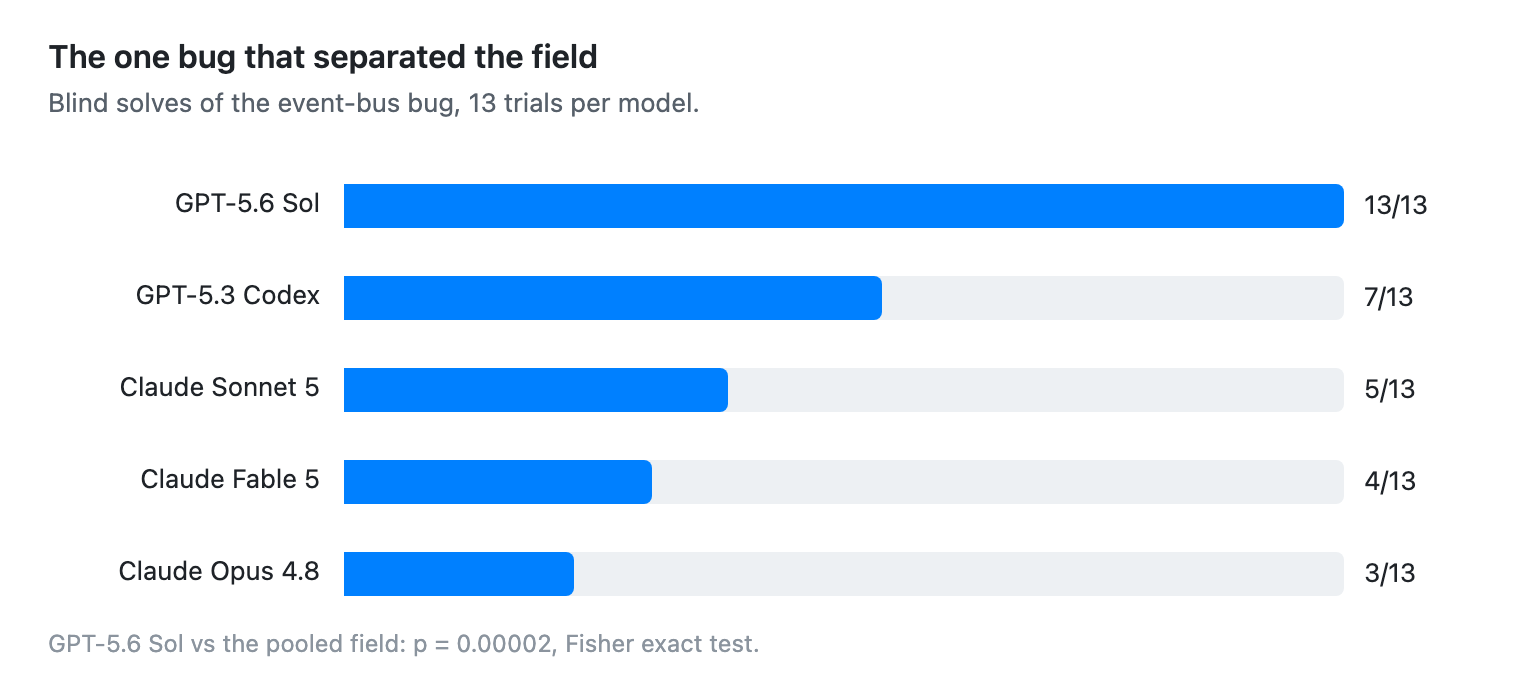
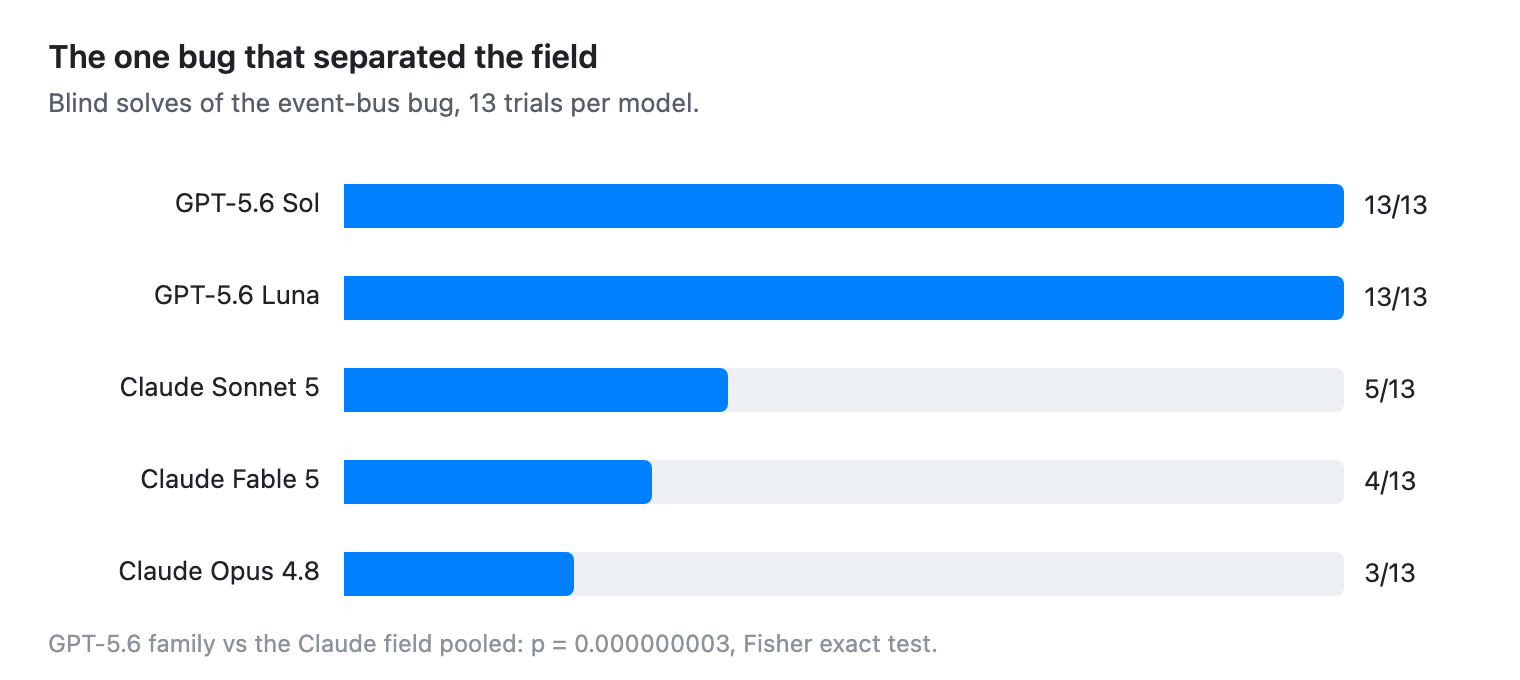
GPT-5.6 Luna replaces retiring Codex in the article; Terra and Luna data added

Changed region(s): [[0.5566, 0.4015, 0.9586, 0.4941], [0.0928, 0.9265, 0.6184, 0.9574], [0.0928, 0.4015, 0.2164, 0.4632]]

diff --git a/charts/chart-cost-hard-tier.html b/charts/chart-cost-hard-tier.html
@@ -15,7 +15,7 @@
   <!-- cost scale: $0.16 -> 240px ; time scale: 24s -> 240px -->
   <g font-size="13">
     <!-- model labels -->
-    <text x="136" y="126" text-anchor="end" fill="#1F2328">GPT-5.3 Codex</text>
+    <text x="136" y="126" text-anchor="end" fill="#1F2328">GPT-5.6 Luna</text>
     <text x="136" y="172" text-anchor="end" fill="#1F2328">GPT-5.6 Sol</text>
     <text x="136" y="218" text-anchor="end" fill="#1F2328">Claude Sonnet 5</text>
     <text x="136" y="264" text-anchor="end" fill="#1F2328">Claude Opus 4.8</text>
@@ -23,13 +23,13 @@
 
   <!-- cost bars (x0=148) -->
   <g fill="#0080FF">
-    <path d="M148 112 h23 a4 4 0 0 1 4 4 v14 a4 4 0 0 1 -4 4 h-23 z"/>
+    <path d="M148 112 h15 a4 4 0 0 1 4 4 v14 a4 4 0 0 1 -4 4 h-15 z"/>
     <path d="M148 158 h72 a4 4 0 0 1 4 4 v14 a4 4 0 0 1 -4 4 h-72 z"/>
     <path d="M148 204 h74 a4 4 0 0 1 4 4 v14 a4 4 0 0 1 -4 4 h-74 z"/>
     <path d="M148 250 h212 a4 4 0 0 1 4 4 v14 a4 4 0 0 1 -4 4 h-212 z"/>
   </g>
   <g font-size="13" fill="#1F2328">
-    <text x="183" y="126">$0.018</text>
+    <text x="175" y="126">$0.010</text>
     <text x="232" y="172">$0.049</text>
     <text x="234" y="218">$0.050</text>
     <text x="372" y="264">$0.144</text>
@@ -37,13 +37,13 @@
 
   <!-- time bars (x0=464), scale 24s -> 240px => px = s * 10 -->
   <g fill="#0080FF">
-    <path d="M464 112 h124 a4 4 0 0 1 4 4 v14 a4 4 0 0 1 -4 4 h-124 z"/>
+    <path d="M464 112 h97 a4 4 0 0 1 4 4 v14 a4 4 0 0 1 -4 4 h-97 z"/>
     <path d="M464 158 h164 a4 4 0 0 1 4 4 v14 a4 4 0 0 1 -4 4 h-164 z"/>
     <path d="M464 204 h153 a4 4 0 0 1 4 4 v14 a4 4 0 0 1 -4 4 h-153 z"/>
     <path d="M464 250 h200 a4 4 0 0 1 4 4 v14 a4 4 0 0 1 -4 4 h-200 z"/>
   </g>
   <g font-size="13" fill="#1F2328">
-    <text x="596" y="126">12.8s</text>
+    <text x="569" y="126">9.7s</text>
     <text x="636" y="172">16.4s</text>
     <text x="625" y="218">15.3s</text>
     <text x="672" y="264">20.4s</text>

diff --git a/charts/chart-blind-solves.html b/charts/chart-blind-solves.html
@@ -10,7 +10,7 @@
   <!-- rows: GPT-5.5 13, Codex 7, Sonnet 5, Fable 4, Opus 3 ; track x0=172 width 500 (13 -> 500px) -->
   <g font-size="13">
     <text x="160" y="106" text-anchor="end" fill="#1F2328">GPT-5.6 Sol</text>
-    <text x="160" y="152" text-anchor="end" fill="#1F2328">GPT-5.3 Codex</text>
+    <text x="160" y="152" text-anchor="end" fill="#1F2328">GPT-5.6 Luna</text>
     <text x="160" y="198" text-anchor="end" fill="#1F2328">Claude Sonnet 5</text>
     <text x="160" y="244" text-anchor="end" fill="#1F2328">Claude Fable 5</text>
     <text x="160" y="290" text-anchor="end" fill="#1F2328">Claude Opus 4.8</text>
@@ -28,7 +28,7 @@
   <!-- bars: px = n/13*500 -> 13:500, 7:269, 5:192, 4:154, 3:115 -->
   <g fill="#0080FF">
     <path d="M172 92  h496 a4 4 0 0 1 4 4 v14 a4 4 0 0 1 -4 4 h-496 z"/>
-    <path d="M172 138 h265 a4 4 0 0 1 4 4 v14 a4 4 0 0 1 -4 4 h-265 z"/>
+    <path d="M172 138 h496 a4 4 0 0 1 4 4 v14 a4 4 0 0 1 -4 4 h-496 z"/>
     <path d="M172 184 h188 a4 4 0 0 1 4 4 v14 a4 4 0 0 1 -4 4 h-188 z"/>
     <path d="M172 230 h150 a4 4 0 0 1 4 4 v14 a4 4 0 0 1 -4 4 h-150 z"/>
     <path d="M172 276 h111 a4 4 0 0 1 4 4 v14 a4 4 0 0 1 -4 4 h-111 z"/>
@@ -37,13 +37,13 @@
   <!-- labels to the right of the rail -->
   <g font-size="13" fill="#1F2328">
     <text x="682" y="107">13/13</text>
-    <text x="682" y="153">7/13</text>
+    <text x="682" y="153">13/13</text>
     <text x="682" y="199">5/13</text>
     <text x="682" y="245">4/13</text>
     <text x="682" y="291">3/13</text>
   </g>
 
-  <text x="24" y="326" font-size="12" fill="#8B949E">GPT-5.6 Sol vs the pooled field: p = 0.00002, Fisher exact test.</text>
+  <text x="24" y="326" font-size="12" fill="#8B949E">GPT-5.6 family vs the Claude field pooled: p = 0.000000003, Fisher exact test.</text>
 </svg>
 </body>
 </html>

diff --git a/ARTICLE.md b/ARTICLE.md
@@ -1,6 +1,6 @@
 # I Made 5 Frontier Models Run 410 Coding Tasks. Coding Ability Is Not What Separates Them.
 
-I decided to run a little experiment and gave five frontier models the same job: they got a small JavaScript project and a bug report, with four tools to go and fix it. The models I tested were Claude Opus 4.8, Claude Sonnet 5, Claude Fable 5, GPT-5.6 Sol, and GPT-5.3 Codex where each ran 82 times against 18 tasks, first with the test suite available and then without it, making 410 runs in total, every one traced into Latitude for observability of different metrics like cost and latency. Before carrying out the experiment I expected a ranking of who fixes bugs best. Instead, every model fixed the bugs without too much of a hassle, and the real differences showed up in performance: what a solved task costs, how fast it got there, and oddly enough whether the model agrees to do the work at all.
+I decided to run a little experiment and gave five frontier models the same job: they got a small JavaScript project and a bug report, with four tools to go and fix it. The models I tested were Claude Opus 4.8, Claude Sonnet 5, Claude Fable 5, GPT-5.6 Sol, and GPT-5.6 Luna where each ran 82 times against 18 tasks, first with the test suite available and then without it, making 410 runs in total, every one traced into Latitude for observability of different metrics like cost and latency. Before carrying out the experiment I expected a ranking of who fixes bugs best. Instead, every model fixed the bugs without too much of a hassle, and the real differences showed up in performance: what a solved task costs, how fast it got there, and oddly enough whether the model agrees to do the work at all.
 
 Two disclosures before I get to the numbers. The harness was built and operated by Claude Fable 5 running as a coding agent, and Fable 5 is also a contestant. The benchmark tasks themselves were authored by Claude-based agents as well, which is a bias that cannot be fully ruled out, so the harness, every task, and the raw per-run results ship in this repo for anyone who wants to check the work or point it at different models.
 
@@ -24,11 +24,11 @@ All five models solved 100 percent of the runs they attempted, on both difficult
 
 However what did vary was the bill. Cost per solved task on the hard tier:
 
-![Bar charts of cost per solved task and median time per task on the hard tier: Codex $0.018 and 12.8s, GPT-5.6 Sol $0.049 and 16.4s, Sonnet 5 $0.050 and 15.3s, Opus 4.8 $0.144 and 20.4s](charts/chart-cost-hard-tier.png)
+![Bar charts of cost per solved task and median time per task on the hard tier: GPT-5.6 Luna $0.010 and 9.7s, GPT-5.6 Sol $0.049 and 16.4s, Sonnet 5 $0.050 and 15.3s, Opus 4.8 $0.144 and 20.4s](charts/chart-cost-hard-tier.png)
 
 Claude Fable 5 is missing from this table because it refused 16 of its 18 hard-tier runs, too few solves to price fairly, for a reason that gets its own section below. On the easy tier it solved all 23 runs it attempted, at $0.20 each with a 29-second median, still the slowest and priciest of the field.
 
-**That is an 8x difference for identical outcomes.** Moving from single-file to multi-file bugs roughly doubled Opus's cost per solve while barely moving Codex's, which ran about a penny on the easy tier and under two cents on the hard. When every model gets you the same green checkmark, paying flagship prices for routine fixes is wasteful to say the least.
+**That is a 14x difference for identical outcomes.** Moving from single-file to multi-file bugs roughly doubled Opus's cost per solve while barely moving Luna's, which stayed around a penny on both tiers. When every model gets you the same green checkmark, paying flagship prices for routine fixes is wasteful to say the least.
 
 ![Latitude users view showing the five models as users, each with a session count and total cost](screenshots/03-models-as-users.png)
 
@@ -66,13 +66,13 @@ The fix is a one-liner in the wrapper. Finding it is the hard part: you have to 
 
 The first pass ran every blind task three times per model, and this bug was the only one where anyone failed, so I reran it at thirteen trials per model to make sure I was looking at a real difference:
 
-![Bar chart of blind solves on the event-bus bug out of 13 trials: GPT-5.6 Sol 13, Codex 7, Sonnet 5 5, Fable 5 4, Opus 4.8 3](charts/chart-blind-solves.png)
+![Bar chart of blind solves on the event-bus bug out of 13 trials: GPT-5.6 Sol 13, GPT-5.6 Luna 13, Sonnet 5 5, Fable 5 4, Opus 4.8 3](charts/chart-blind-solves.png)
 
-GPT-5.6 Sol against the rest of the field pooled comes out at p = 0.00002 on a Fisher exact test, so this is not sampling luck. It also scrambles the pricing intuition: the cheapest model in the lineup is second best at blind diagnosis, and the most expensive is the worst.
+Both GPT-5.6 models against the Claude field pooled come out at p = 0.000000003 on a Fisher exact test, so this is not sampling luck. It also breaks the pricing intuition completely: the cheapest model in the lineup ties the flagship with a perfect score, and the most expensive is the worst.
 
-A lineup note: the benchmark first ran with GPT-5.5, and OpenAI shipped GPT-5.6 while I was writing this up, so I reran all 82 of its runs on GPT-5.6 Sol. The charts show the successor. GPT-5.5 solved exactly the same tasks, including 13/13 on this bug, at slightly higher cost and latency; its full numbers are in this repo.
+A lineup note: the benchmark first ran with GPT-5.5 and GPT-5.3 Codex. OpenAI shipped the GPT-5.6 family while I was writing this up and scheduled Codex's API shutdown for July 23, so I reran the full 82-run gauntlet on GPT-5.6 Sol and GPT-5.6 Luna, and the charts show the successors. The retired pair's full numbers are in this repo: GPT-5.5 matched Sol's solves at higher cost, and Codex solved this bug 7 times out of 13.
 
-That is a bit of an interesting revelation, at least as it pertains to this experiment. The gap between these models is not whether they can fix bugs. It is whether they can reason through a genuinely tricky bug with nothing to check their answer against, and you only pay for that gap when no test can tell the model it is wrong. If your pipeline gives agents a failing test to iterate against, the $0.018 model and the $0.144 model produce the same outcome, and the discriminating case is rare enough that I had to engineer it on purpose.
+That is a bit of an interesting revelation, at least as it pertains to this experiment. The gap between these models is not whether they can fix bugs. It is whether they can reason through a genuinely tricky bug with nothing to check their answer against, and you only pay for that gap when no test can tell the model it is wrong. If your pipeline gives agents a failing test to iterate against, the $0.010 model and the $0.144 model produce the same outcome, and the discriminating case is rare enough that I had to engineer it on purpose.
 
 ## What happened with Claude Fable 5
 
@@ -86,6 +86,6 @@ The scope here is narrow on purpose so the experiment was nicely isolated. Every
 
 ## What I'd do with these numbers
 
-For this class of task, give your agent a test suite it can run against, wire everything into an observability platform, and buy the cheap model. Every task where the agent could run the tests was solved by the cheapest model in the lineup for a penny or two per fix, and the expensive models added little but latency and cost. Save the flagship spend for work where nothing can tell the agent it is wrong, because that is the only place I could measure a quality difference at all. Finally maybe consider refusal rate as a production metric along with signals like user frustration or escalation, measured on your own traffic.
+For this class of task, give your agent a test suite it can run against, wire everything into an observability platform, and buy the cheap model. Every task where the agent could run the tests was solved by the cheapest model in the lineup for about a penny per fix, and the expensive models added little but latency and cost. Quality differences only appeared where nothing could tell the agent it was wrong, and even there the newest cheap model matched the flagship, so test on your own workload before paying for size. Finally maybe consider refusal rate as a production metric along with signals like user frustration or escalation, measured on your own traffic.
 
-The harness, the tasks, the per-run results, and the refusal probes are all in this repo, and the whole benchmark cost around $30 in API spend if you do the same setup.
+The harness, the tasks, the per-run results, and the refusal probes are all in this repo, and the whole benchmark cost around $32 in API spend if you do the same setup.